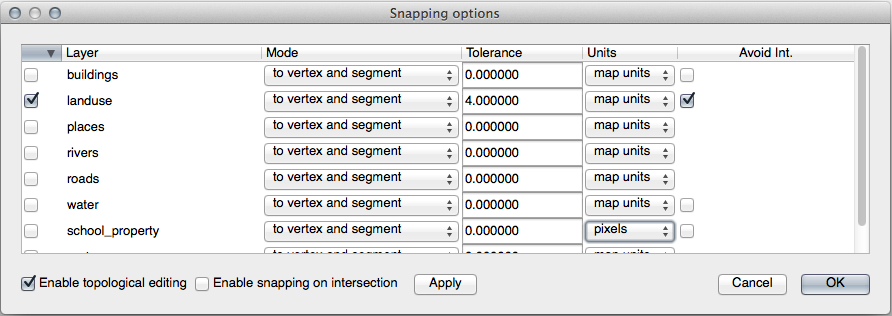
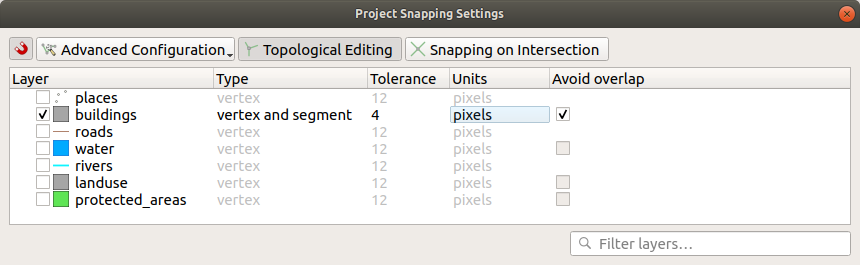
TM - Update snapping options screenshot (#5686)

diff --git a/docs/training_manual/create_vector_data/topo_editing.rst b/docs/training_manual/create_vector_data/topo_editing.rst
@@ -24,10 +24,9 @@ snapping options:
 .. figure:: img/set_snapping_options.png
    :align: center
 
-* Ensure that the box in the :guilabel:`Avoid Int.` column is checked (set to
-  true).
-* Click :guilabel:`OK` to save your changes and leave the dialog.
-* Enter edit mode with the :guilabel:`landuse` layer selected.
+* Ensure that the box in the :guilabel:`Avoid overlap` column is checked.
+* Leave the dialog.
+* Select the :guilabel:`landuse` layer and enter edit mode (|toggleEditing|)
 * Check under :menuselection:`View --> Toolbars` to make sure that your
   :guilabel:`Advanced Digitizing` toolbar is enabled.
 * Zoom to this area (enable layers and labels if necessary):
@@ -309,6 +308,8 @@ so that attribute editing is simpler and more effective.
 .. |simplifyFeatures| image:: /static/common/mActionSimplify.png
    :width: 1.5em
 .. |splitFeatures| image:: /static/common/mActionSplitFeatures.png
+   :width: 1.5em
+.. |toggleEditing| image:: /static/common/mActionToggleEditing.png
    :width: 1.5em
 .. |undo| image:: /static/common/mActionUndo.png
    :width: 1.5em
